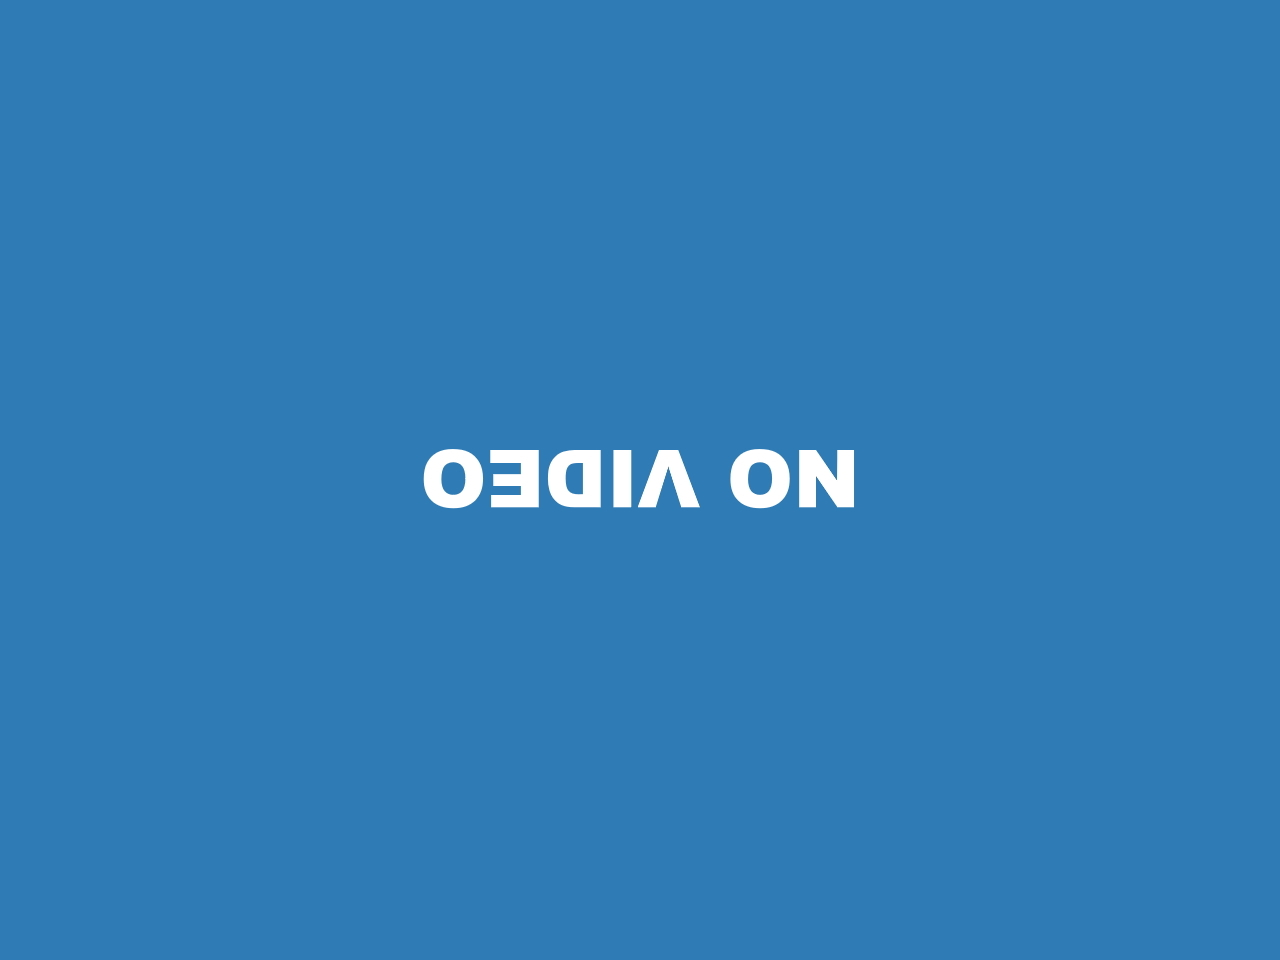
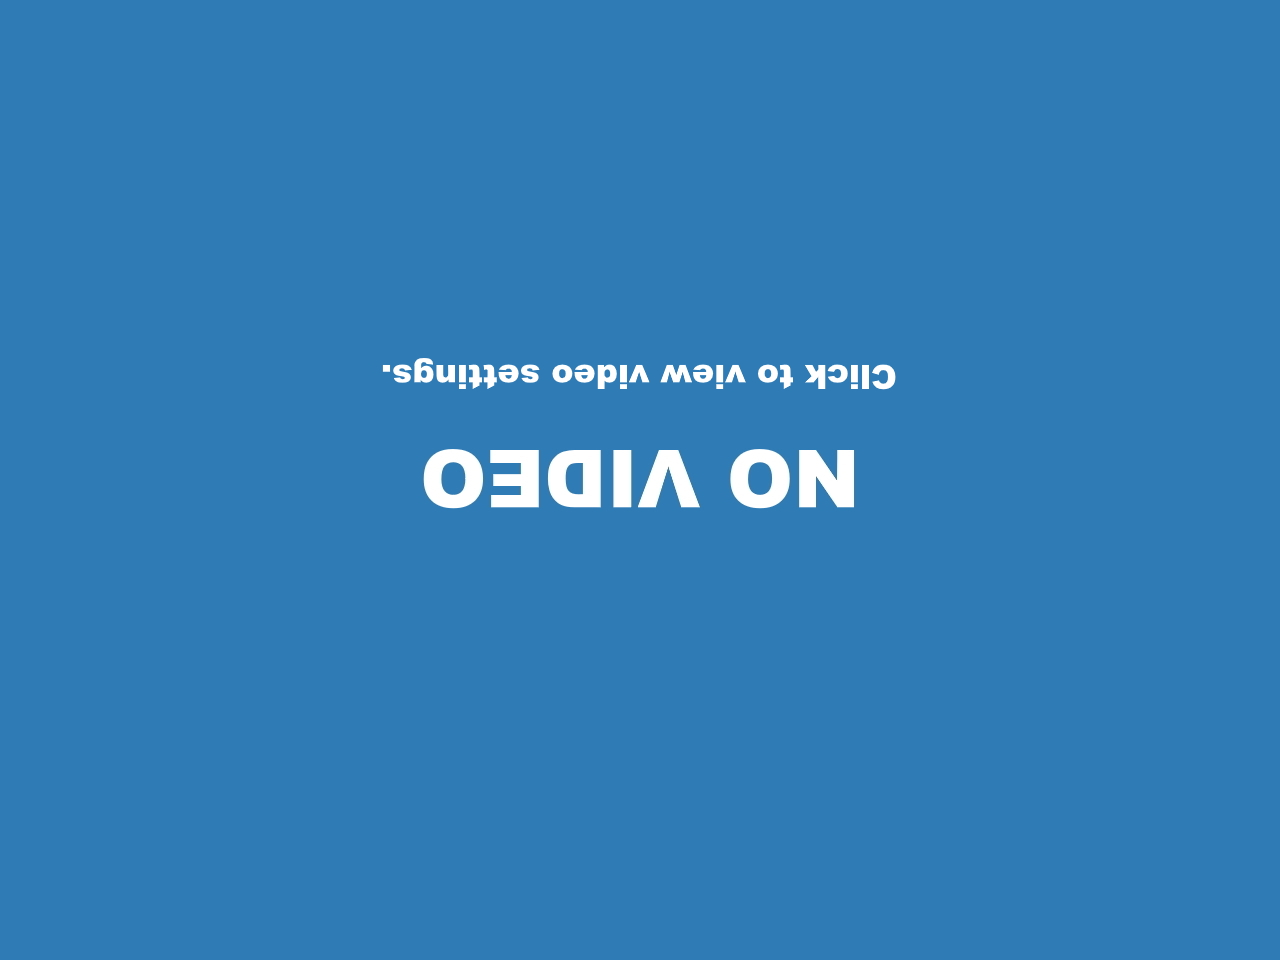
moved battery to own class, added dummy video modal, added hover cursors

Changed region(s): [[0.2812, 0.375, 0.7188, 0.4062]]

diff --git a/public/main.js b/public/main.js
@@ -1,4 +1,5 @@
 class Twist {
+
 	constructor(twist_topic) {
 		this.continious_sending = false;
 		this.linear = 0.0;
@@ -11,7 +12,7 @@ class Twist {
 			messageType : 'geometry_msgs/Twist'
 		});
 
-	};
+	}
 
 	set = (linear, angular) => {
 		this.linear = linear;
@@ -52,76 +53,16 @@ class Twist {
 	}
 }
 
-class BatteryState {
-	constructor(battery_topic) {
-		this.prev_percentage = -1
-		this.prev_voltage = -1
-
-		this.batterytopic = new ROSLIB.Topic({
-			ros : ros,
-			name : battery_topic,
-			messageType : 'sensor_msgs/BatteryState'
-		});
-	}
-
-	// Bind an update function to be called when the battery hits a certain level
-	bind_update = (callback, threshold) => {
-		this.batterytopic.subscribe(function(msg) {
-			//console.log('Received message on ' + batterytopic.name + ': ' + JSON.stringify(msg));
-			let voltage = 0.0
-			let percentage = 0.0
-
-			if (this.prev_percentage > 0) {
-				voltage = parseFloat(msg.voltage) * 0.4 + this.prev_voltage * 0.6;
-				percentage = parseFloat(msg.percentage) * 0.4 + this.prev_percentage * 0.6;
-			}
-			else {
-				voltage = parseFloat(msg.voltage);
-				percentage = parseFloat(msg.percentage);
-			}
-
-			if (Math.abs(this.prev_percentage - percentage) >= threshold) {
-				callback(voltage, percentage)
-			}
-			this.prev_percentage = percentage
-			this.prev_voltage = voltage
-
-		}.bind(this));
-	}
-}
-
-class BatteryView {
-	constructor() {
-		this.display_image = -1;
-		this.pbatteryicon = document.getElementById('pbatteryicon');
-		this.lbatteryicon = document.getElementById('lbatteryicon');
-		this.modal_voltage = document.getElementById("batt_voltage");
-		this.modal_percentage = document.getElementById("batt_voltage");
-	}
-
-	update = (voltage, percentage) => {
-		let displayvolt = Math.round(voltage*10)/10;
-		let imageperc = Math.ceil(percentage*4)*25;
-		let displayperc = Math.round(percentage*100);
-
-		if(this.display_image != imageperc) {
-			this.display_image = imageperc;
-			this.pbatteryicon.src = "assets/img/"+imageperc+".svg";
-			this.lbatteryicon.src = "assets/img/"+imageperc+".svg";
-		}
-
-		this.modal_voltage.innerHTML = "Voltage: "+displayvolt.toFixed(1)+" V";
-		this.modal_percentage.innerHTML = "Percentage: "+displayperc+" %";
-	}
-}
-
 // Serves the purpose of the Controller for now, we
 // don't need anything more complex yet
 // Connect the Views and the Models
 window.addEventListener('load', function() {
+	
 	var twist = new Twist('/cmd_vel');
+
 	var landscape_input = new Landscape();
 	landscape_input.bind_sliders(twist.set, twist.clear);
+
 	var portrait_input = new Portrait();
 	portrait_input.bind_buttons(twist.set, twist.clear);
 	portrait_input.bind_joystick(twist.set, twist.clear);

diff --git a/public/index.html b/public/index.html
@@ -26,6 +26,7 @@
 	
 	<script src="settings.js"></script>
 	<script src="roslink.js"></script>
+	<script src="battery.js"></script>
 
 	<script src="main.js"></script>
 	<script src="modal.js"></script>
@@ -34,13 +35,41 @@
 	<script src="portrait_input.js"></script>
 	<script src="landscape_input.js"></script>
 
+	<div id="videoModal" class="modal">
+
+		<div class="modal-content">
+			<span class="close zoom" onclick="Modal.close('videoModal')">&times;</span>
+			<h1>Video Settings</h1>
+
+			<label for="videotopic">Select video topic:</label>
+			<select id="videotopic">
+				<!-- Add topics here dynamically, for now hardcoded -->
+				<option value="/raspicam_node/image/compressed">/raspicam_node/image/compressed</option>
+			</select>
+
+			<hr/>
+
+			<label for="videofpsres">Select resolution / framerate:</label>
+			<select id="videofpsres">
+				<!-- Add topics here dynamically, for now hardcoded -->
+				<option value="camerav2_410x308_30fps.launch">410x308 30fps</option>
+			</select>
+
+			<hr/>
+
+			<button id="recbutton" style="color: gray; margin-top: 5px; display: block;" onclick="VideoStream.toggle()" disabled type="button">Stop Stream</button>
+
+		</div>
+
+	</div>
+
 	<div id="batteryModal" class="modal">
 
 		<div class="modal-content">
 			<span class="close zoom" onclick="Modal.close('batteryModal')">&times;</span>
 			<h1>Battery Info</h1>
-			<h2 id="batt_voltage">Voltage: --.- V</h2>
-			<h2 id="batt_percentage">Percentage: --- %</h2>
+			<p id="batt_voltage">Voltage: --.- V</p>
+			<p id="batt_percentage">Percentage: --- %</p>
 		</div>
 
 	</div>
@@ -109,7 +138,7 @@
 	<div id="portrait">
 
 		<div style="width:100%; height:40%;">
-			<img alt="" id="pvideostream" class="flip noselect" src="assets/img/novideo.jpg">
+			<img alt="" id="pvideostream" class="flip noselect" src="assets/img/novideo.jpg" onclick="Modal.open('videoModal');">
 		</div>
 
 		<div style="width:100%; height:8vh; background-color: #4d4c4c; border-bottom: 1px solid gray;">
@@ -161,7 +190,7 @@
 		</div>
 
 		<div class="column" style="width: 60%;">
-			<img alt="" id="lvideostream" class="flip noselect" src="assets/img/novideo.jpg">
+			<img alt="" id="lvideostream" class="flip noselect" src="assets/img/novideo.jpg" onclick="Modal.open('videoModal');">
 		</div>
 
 		<div class="column" style="width: 20%;">

diff --git a/public/battery.js b/public/battery.js
@@ -1,0 +1,69 @@
+
+class BatteryState {
+
+	constructor(battery_topic) {
+
+		this.prev_percentage = -1
+		this.prev_voltage = -1
+
+		this.batterytopic = new ROSLIB.Topic({
+			ros : ros,
+			name : battery_topic,
+			messageType : 'sensor_msgs/BatteryState'
+		});
+	}
+
+	// Bind an update function to be called when the battery hits a certain level
+	bind_update = (callback, threshold) => {
+
+		this.batterytopic.subscribe(function(msg) {
+			//console.log('Received message on ' + batterytopic.name + ': ' + JSON.stringify(msg));
+			let voltage = 0.0
+			let percentage = 0.0
+
+			if (this.prev_percentage > 0) {
+				voltage = parseFloat(msg.voltage) * 0.3 + this.prev_voltage * 0.7;
+				percentage = parseFloat(msg.percentage) * 0.3 + this.prev_percentage * 0.7;
+			}
+			else {
+				voltage = parseFloat(msg.voltage);
+				percentage = parseFloat(msg.percentage);
+			}
+
+			if (Math.abs(this.prev_percentage - percentage) >= threshold) {
+				callback(voltage, percentage)
+			}
+			this.prev_percentage = percentage
+			this.prev_voltage = voltage
+
+		}.bind(this));
+	}
+}
+
+class BatteryView {
+
+	constructor() {
+
+		this.display_image = -1;
+		this.pbatteryicon = document.getElementById('pbatteryicon');
+		this.lbatteryicon = document.getElementById('lbatteryicon');
+		this.modal_voltage = document.getElementById("batt_voltage");
+		this.modal_percentage = document.getElementById("batt_voltage");
+	}
+
+	update = (voltage, percentage) => {
+
+		let displayvolt = Math.round(voltage*10)/10;
+		let imageperc = Math.ceil(percentage*4)*25;
+		let displayperc = Math.round(percentage*100);
+
+		if(this.display_image != imageperc) {
+			this.display_image = imageperc;
+			this.pbatteryicon.src = "assets/img/"+imageperc+".svg";
+			this.lbatteryicon.src = "assets/img/"+imageperc+".svg";
+		}
+
+		this.modal_voltage.innerHTML = "Voltage: "+displayvolt.toFixed(1)+" V";
+		this.modal_percentage.innerHTML = "Percentage: "+displayperc+" %";
+	}
+}

diff --git a/public/assets/css/landscape.css b/public/assets/css/landscape.css
@@ -26,6 +26,7 @@ h2 {
 	height: 100vh;
 	object-fit: contain;
 	filter:	drop-shadow(0 -10px 0 #4d4c4c) drop-shadow(0 10px 0 #4d4c4c) drop-shadow(-10px 0 0 #4d4c4c) drop-shadow(10px 0 0 #4d4c4c);
+	cursor: pointer;
 }
 
 #llogo{
@@ -53,6 +54,7 @@ h2 {
 	transform-origin: 50% 50%;
 
 	object-fit: contain;
+	cursor: pointer;
 }
 
 .arrowhoriz {
@@ -68,6 +70,7 @@ h2 {
 	transform-origin: 50% 50%;
 
 	object-fit: contain;
+	cursor: pointer;
 }
 
 
@@ -93,6 +96,7 @@ h2 {
 	float: left;
 	position: relative;
 	width: 50%; 
+	cursor: pointer;
 }
 
 #joy_linear{

diff --git a/public/assets/css/portrait.css b/public/assets/css/portrait.css
@@ -18,6 +18,7 @@ h2 {
 	float: left;
 	position: relative;
 	width: 33%; 
+	cursor: pointer;
 }
 
 #landscape{
@@ -33,6 +34,7 @@ h2 {
 	width: 100vw; 
 	height: 100%;
 	object-fit: contain;
+	cursor: pointer;
 }
 
 #plogo{
@@ -54,4 +56,5 @@ h2 {
 	transform-origin: 50% 50%;
 
 	object-fit: contain;
+	cursor: pointer;
 }
